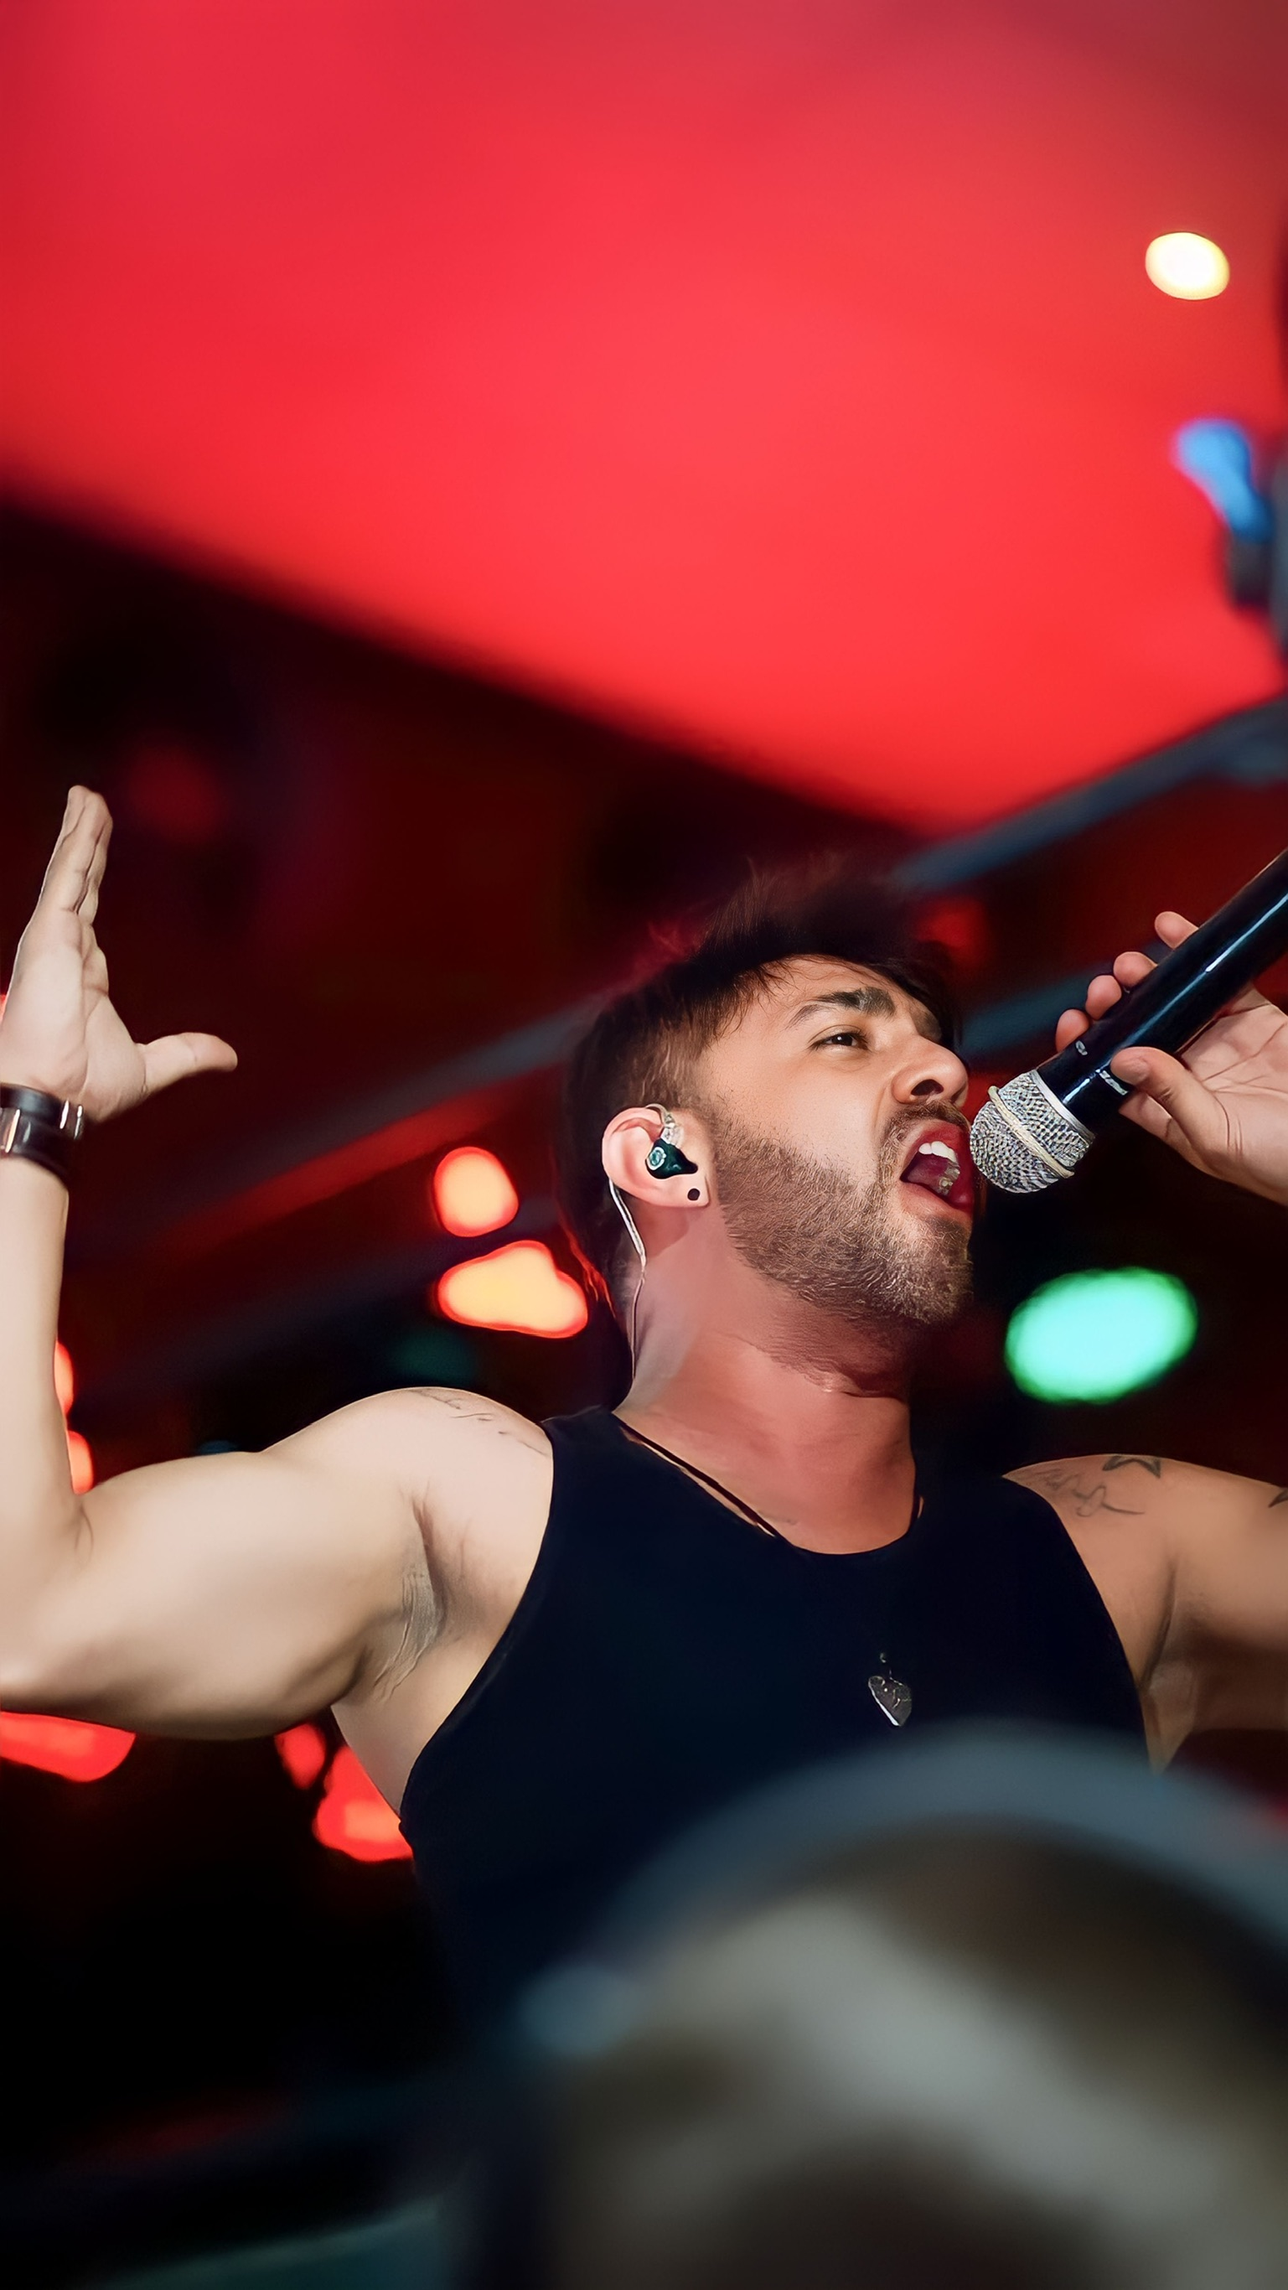
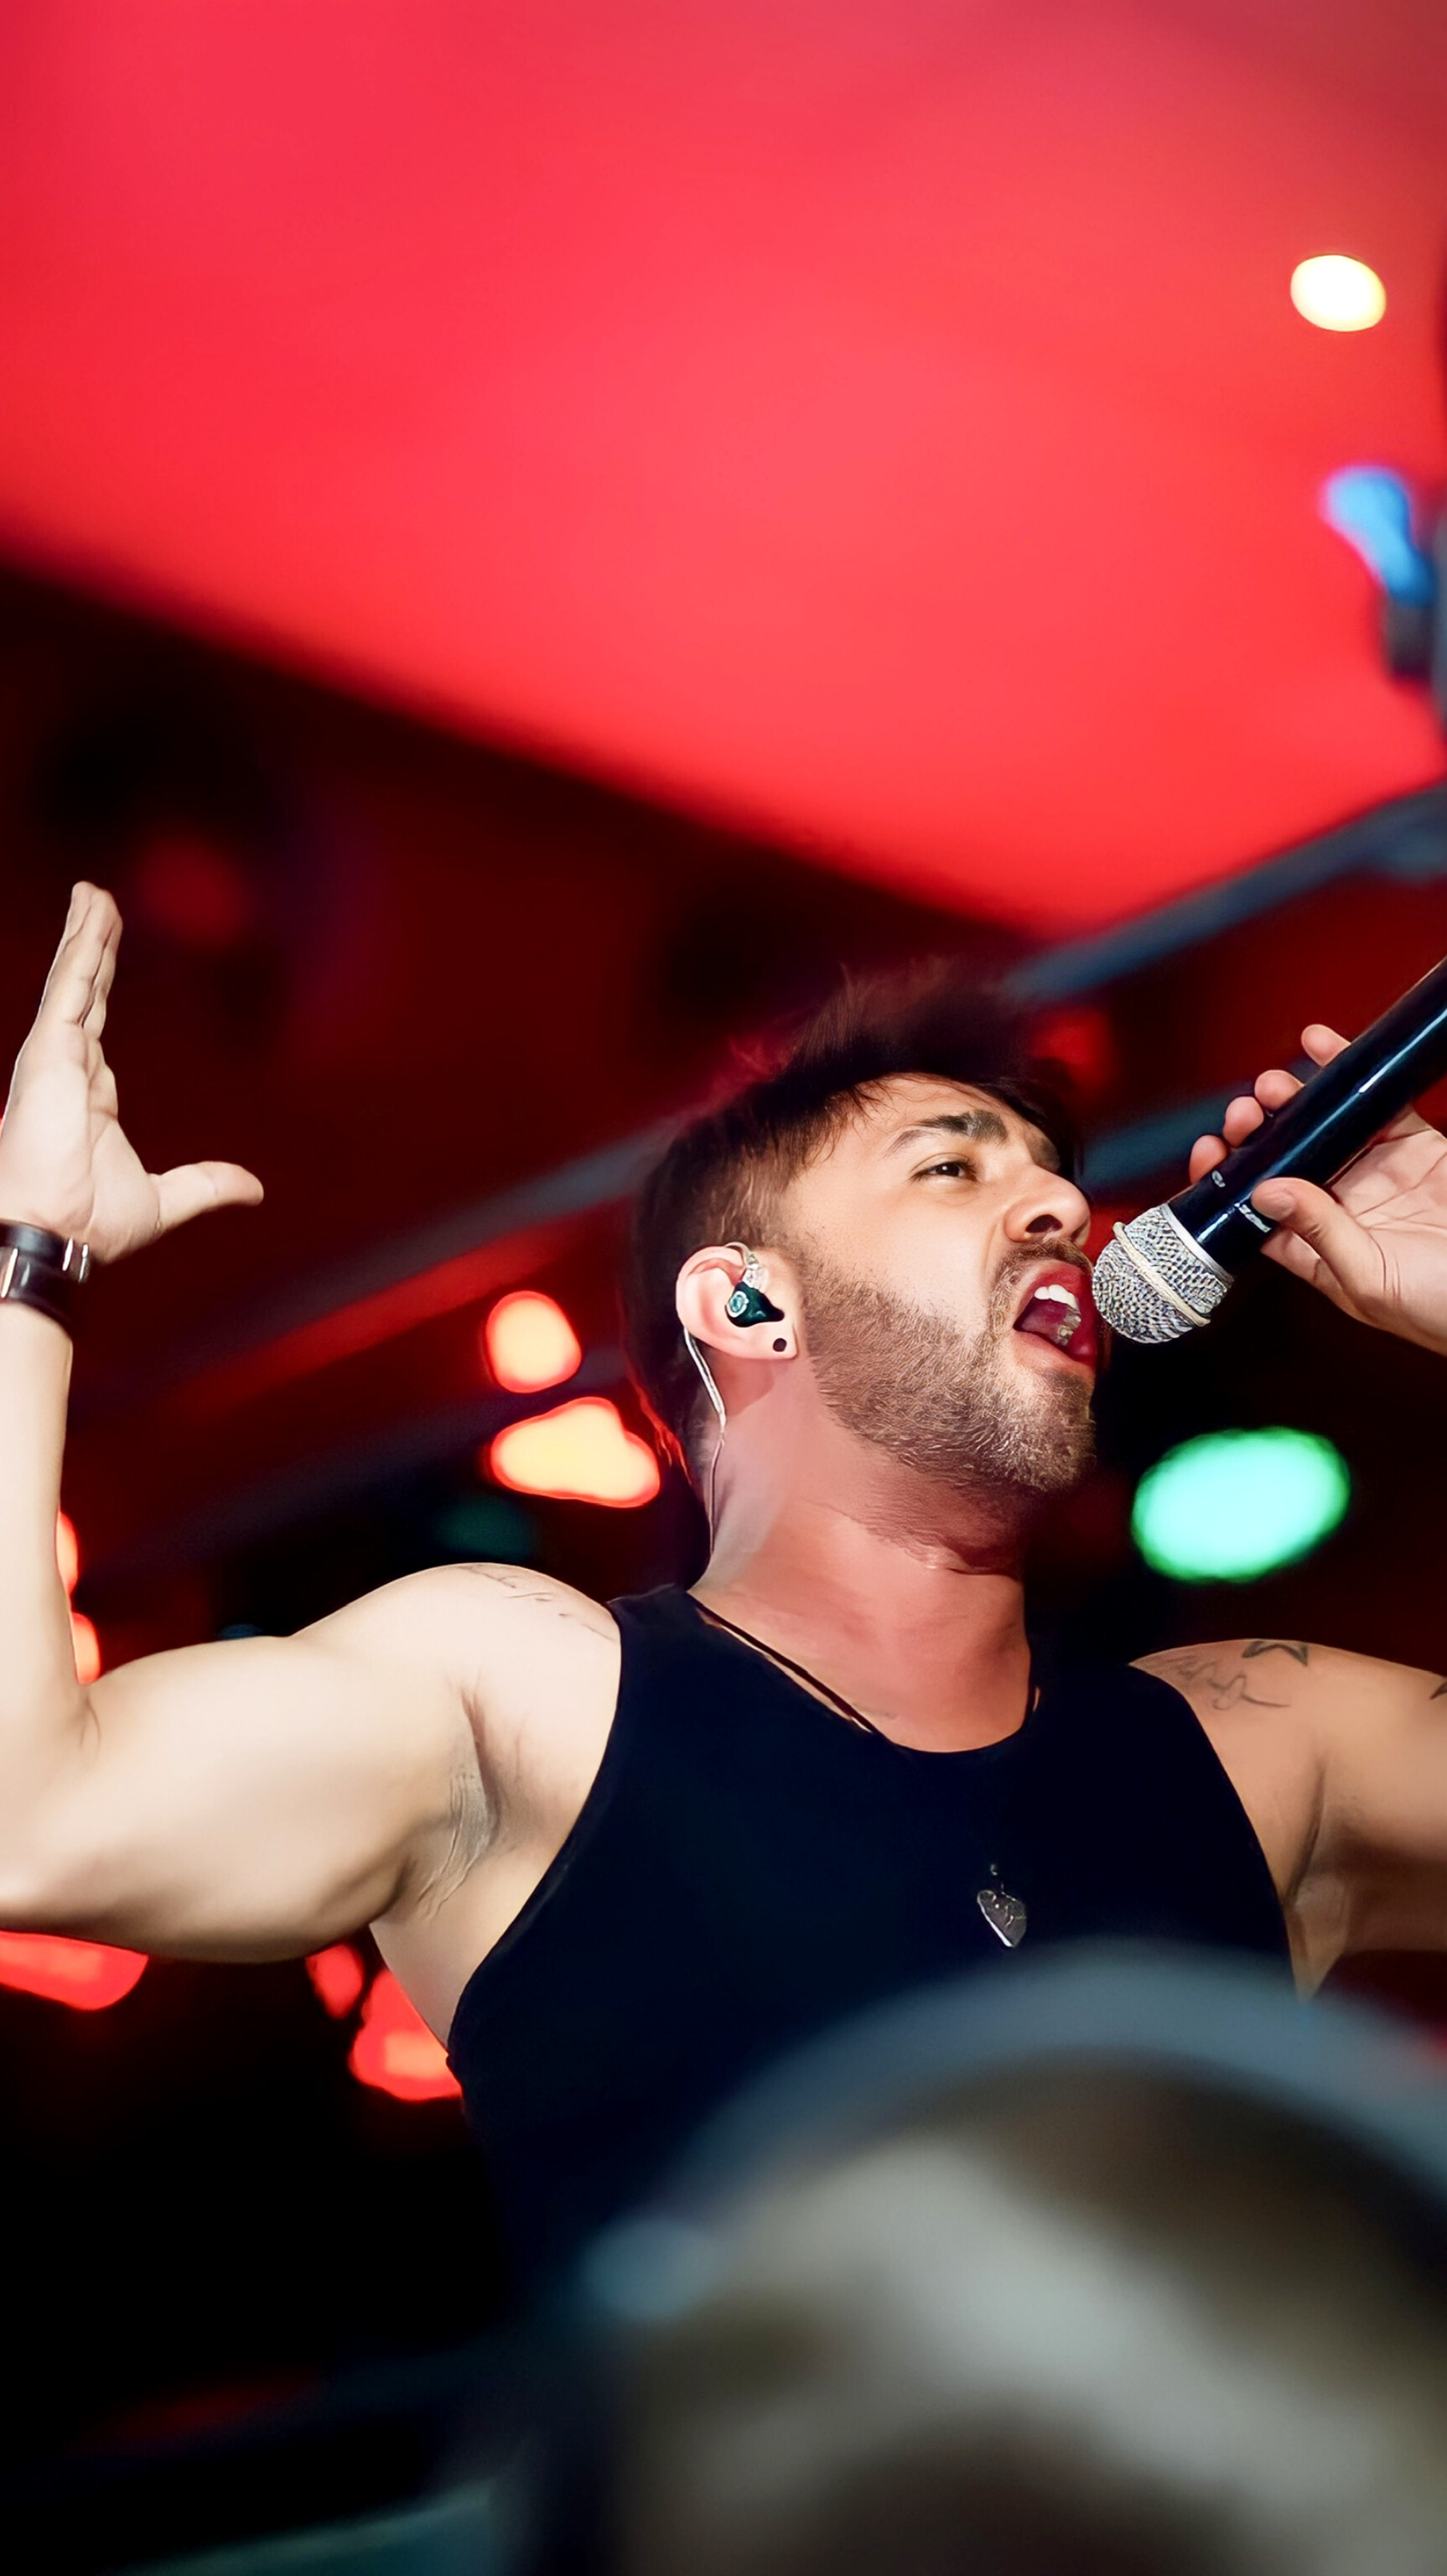
fix: change photos

diff --git a/src/components/MusiciansTabs/EzioTab.tsx b/src/components/MusiciansTabs/EzioTab.tsx
@@ -3,12 +3,12 @@ import React from 'react';
 function EzioTab() {
   return (
     <div className="p-1 xl:p-4 w-full h-full flex flex-col xl:flex-row items-center justify-center gap-2 xl:gap-8">
-      <div className='w-[216px] h-96 xl:-mt-20'
+      <div className='w-64 h-96 xl:-mt-20'
         style={{
           backgroundImage: `url(/assets/ezio-1.jpg)`,
           backgroundRepeat: 'no-repeat',
           backgroundPosition: 'center',
-          backgroundSize: 'contain',
+          backgroundSize: 'cover',
         }}
       />
       <div className='w-64 h-96 xl:mt-20'

diff --git a/src/components/MusiciansTabs/PaoTab.tsx b/src/components/MusiciansTabs/PaoTab.tsx
@@ -3,7 +3,7 @@ import React from 'react';
 function PaoTab() {
   return (
     <div className="p-1 xl:p-4 w-full h-full flex flex-col xl:flex-row items-center justify-center gap-2 xl:gap-8">
-      <div className='w-[216px] h-96 xl:-mt-20'
+      <div className='w-[216px] h-[315px] xl:h-96 xl:-mt-20'
         style={{
           backgroundImage: `url(/assets/pao-1.jpg)`,
           backgroundRepeat: 'no-repeat',
